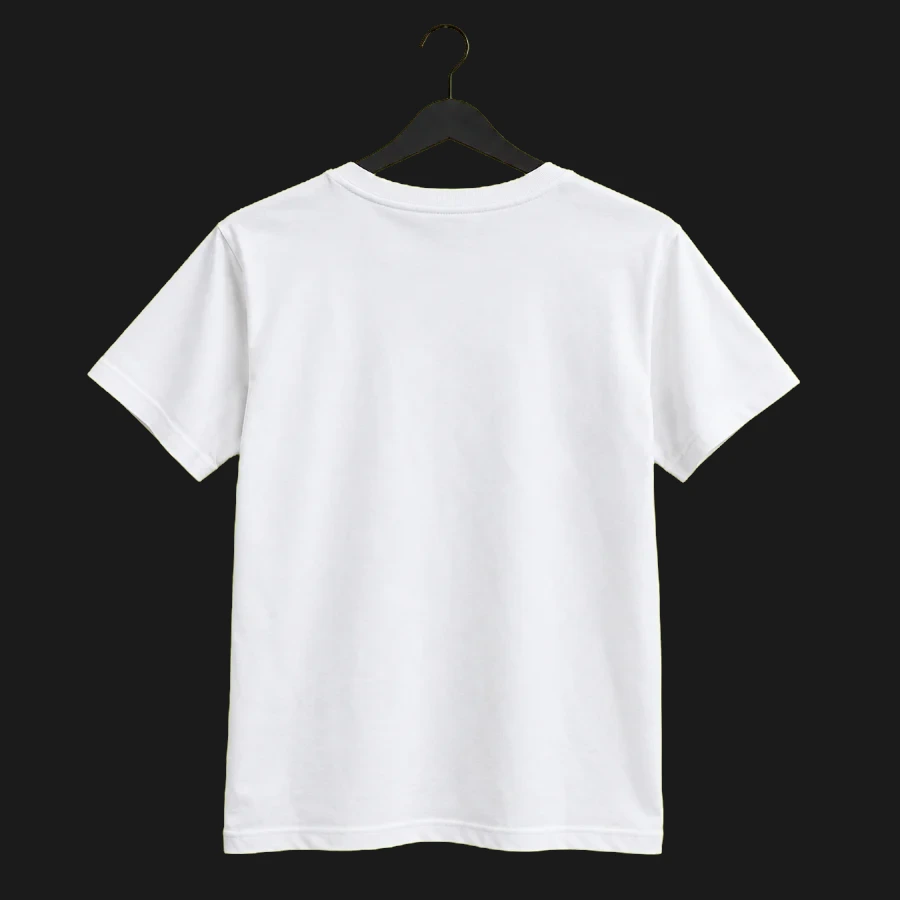
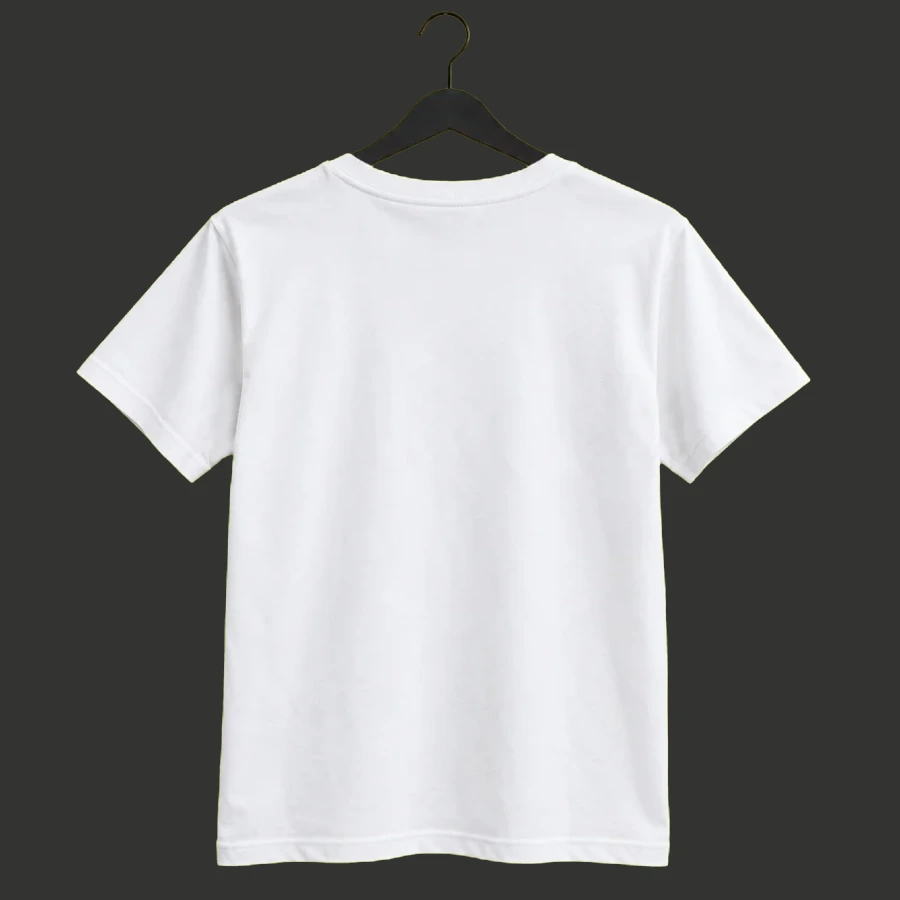
T-shirt print colour options, split colour dots, dark grey hanger tile
Adds Black with white print and White with yellow print to the t-shirt.
Colour dots show the garment and print colour as two halves. The hanger
t-shirt on the home page sits on dark grey instead of black.

Claude-Session: https://claude.ai/code/session_019xa6L3VDLUS6Spv4RoBBK9

diff --git a/lib/catalog.ts b/lib/catalog.ts
@@ -39,6 +39,14 @@ const BLACK_WHITE: Color[] = [
   { name: 'Black', hex: '#1b1b1b', ink: '#e8f525' },
   { name: 'White', hex: '#f4f4f0', ink: '#1b1b1b' },
 ]
+// Extra print colours on the t-shirt
+const TEE_COLORS: Color[] = [
+  BLACK_WHITE[0],
+  { name: 'Black, white print', hex: '#1b1b1b', ink: '#f4f4f0' },
+  BLACK_WHITE[1],
+  { name: 'White, yellow print', hex: '#f4f4f0', ink: '#e8f525' },
+  HI_VIS[0],
+]
 const APPAREL_SIZES = ['XS', 'S', 'M', 'L', 'XL', 'XXL']
 const ONE_SIZE = ['One size']
 
@@ -82,7 +90,7 @@ const allGarments: Garment[] = [
     withArticle: 'a t-shirt',
     art: 'tee',
     price: 2400,
-    colors: [...BLACK_WHITE, HI_VIS[0]],
+    colors: TEE_COLORS,
     sizes: APPAREL_SIZES,
     fits: ['unisex', 'women'],
     description:

diff --git a/components/Designer.tsx b/components/Designer.tsx
@@ -239,7 +239,8 @@ export default function Designer({
                     className={`size-8 rounded-full border-2 border-ink md:size-11 ${
                       c.name === color.name ? 'ring-4 ring-ink ring-offset-2' : ''
                     }`}
-                    style={{ background: c.hex }}
+                    // split dot: garment colour and print colour
+                    style={{ background: `linear-gradient(135deg, ${c.hex} 50%, ${c.ink} 50%)` }}
                   />
                 ))}
               </div>
